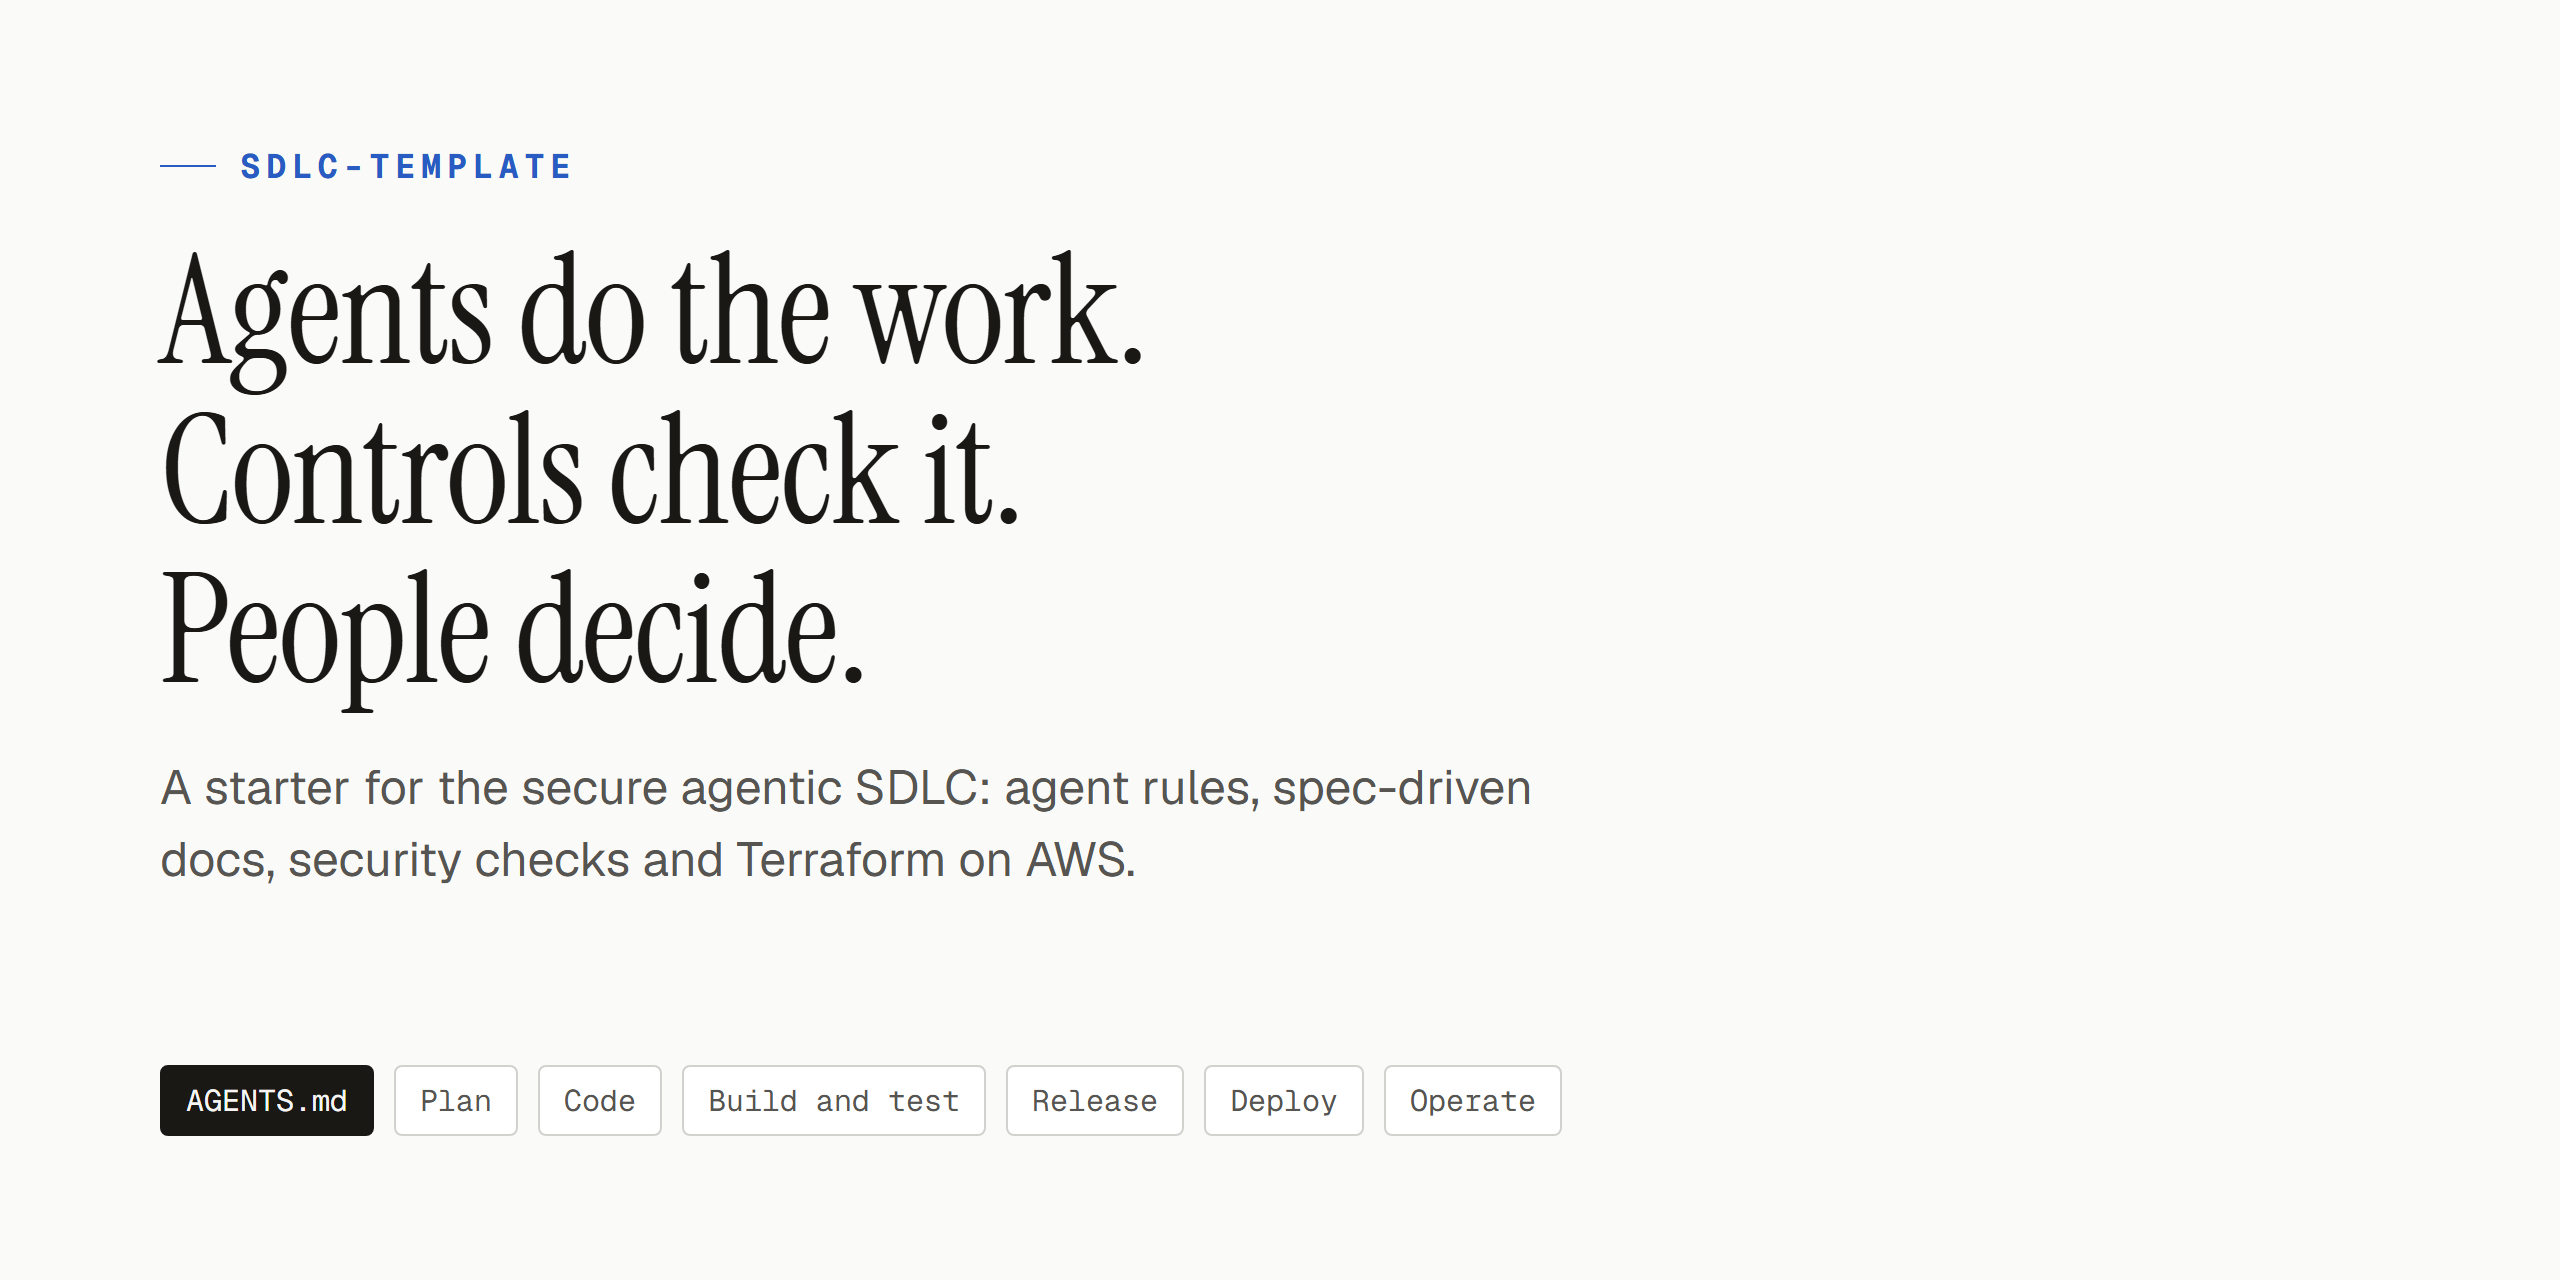
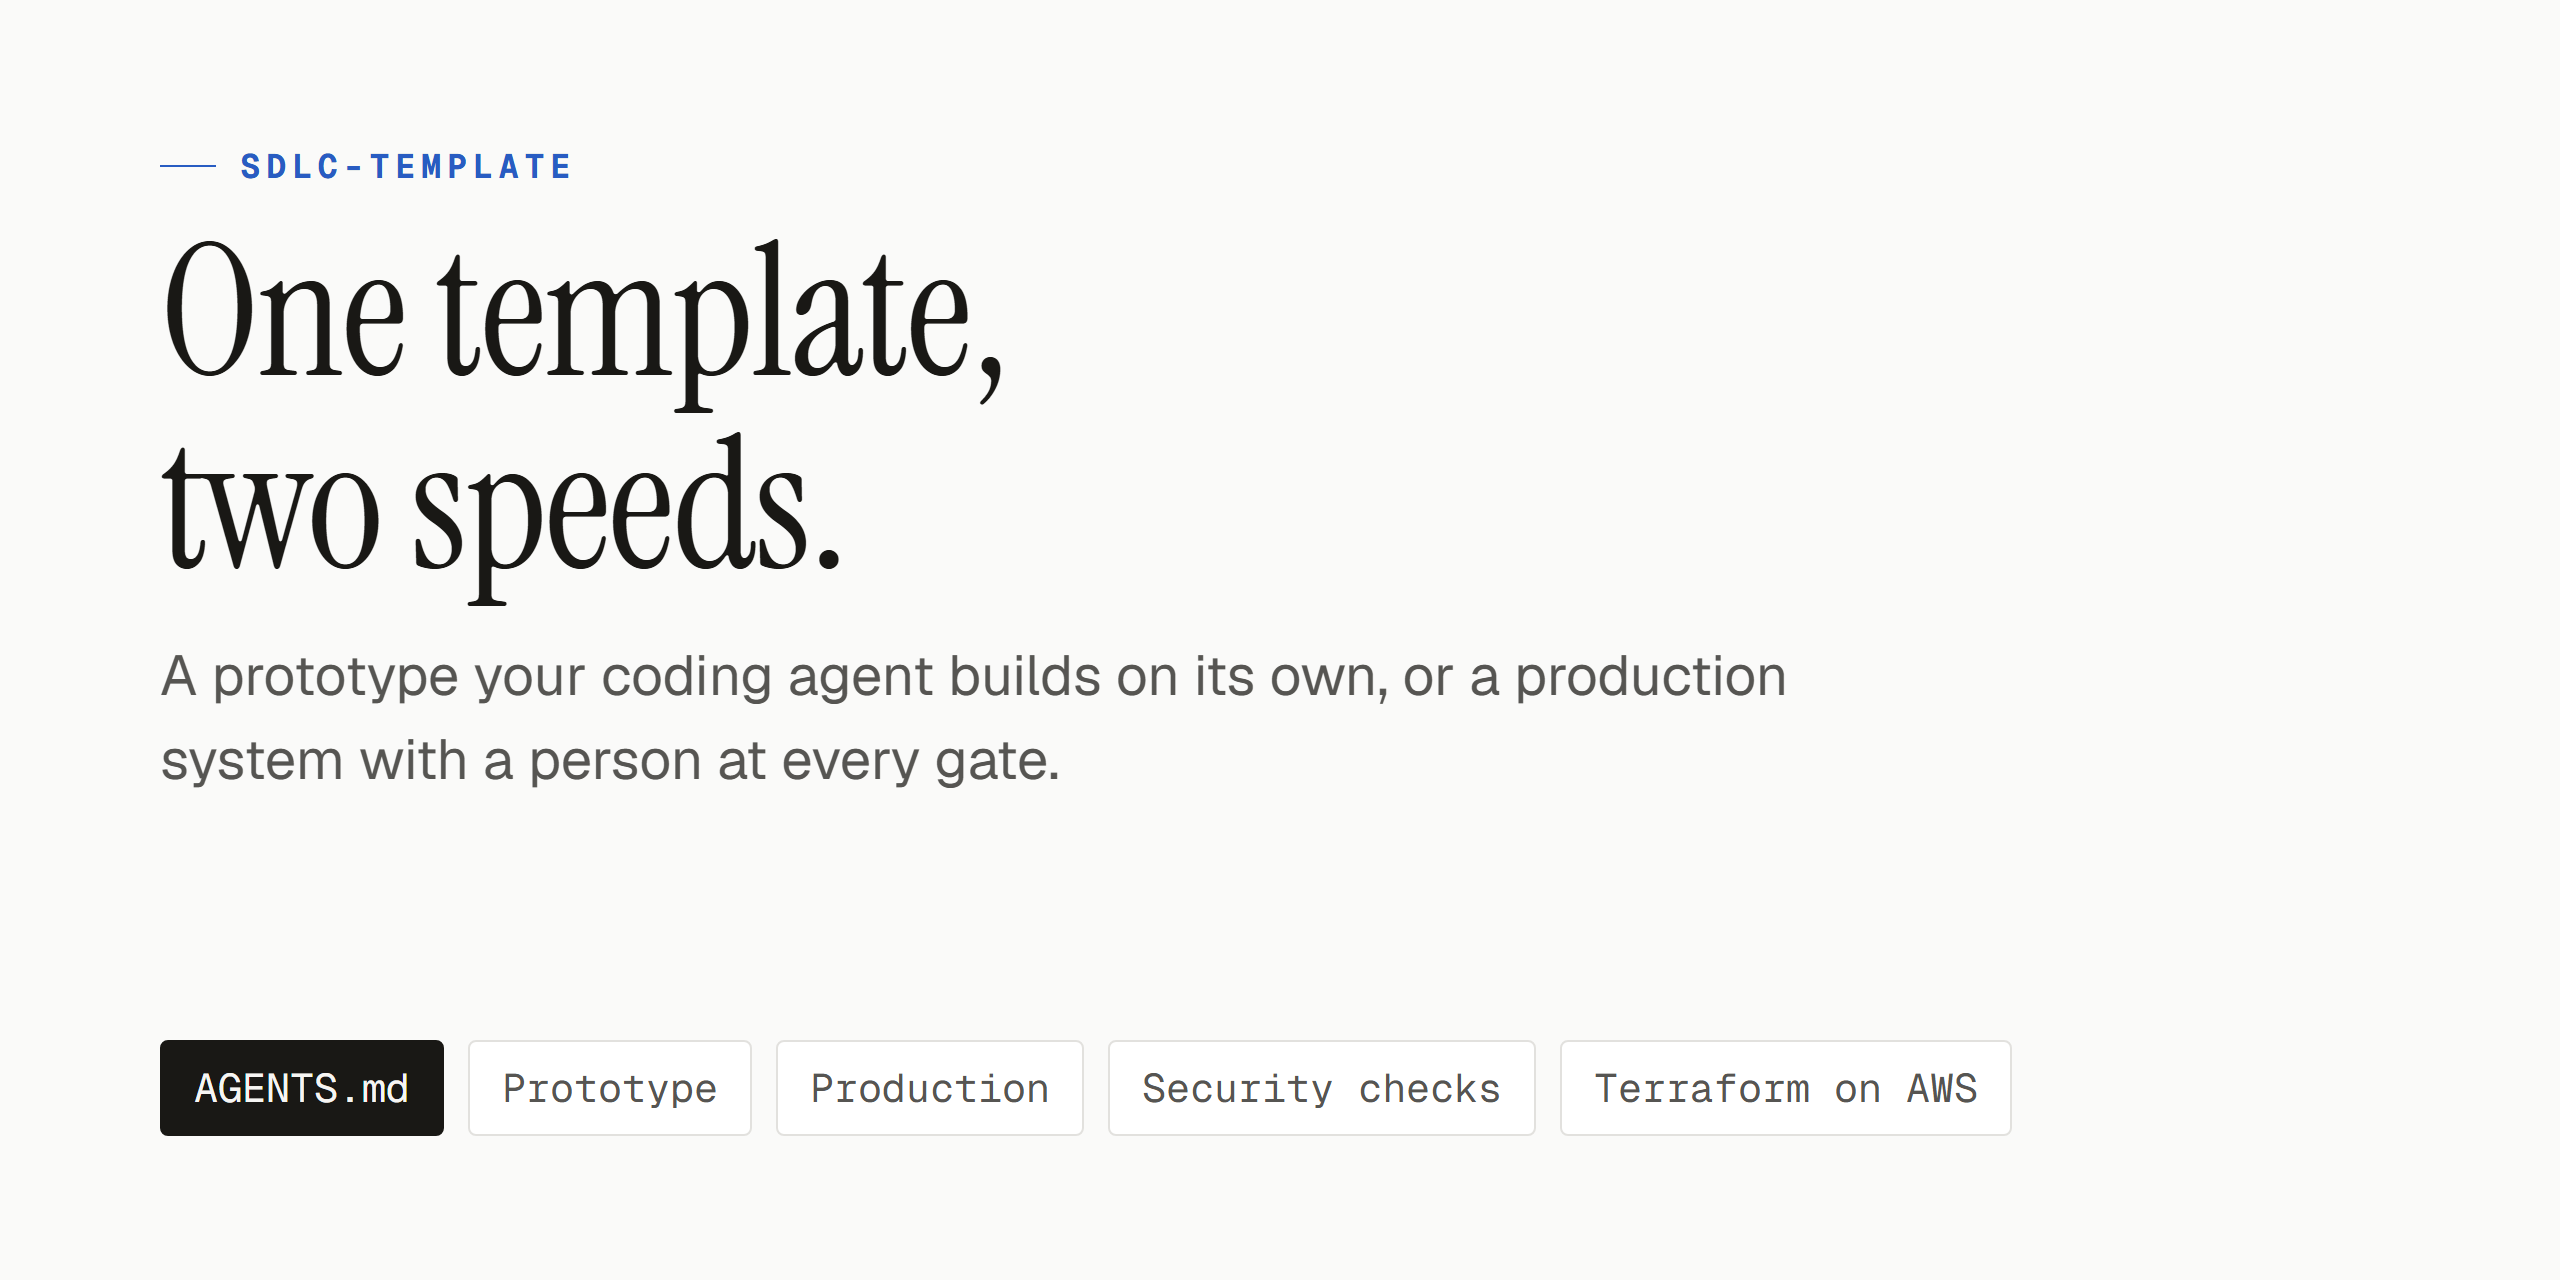
Rewrite the README around the two profiles, with new overview and social images

diff --git a/README.md b/README.md
@@ -2,22 +2,15 @@
 
 # sdlc-template
 
-**Start every project with AI coding agents that plan before they code, and checks that catch what they miss.**
+**One template, two speeds: a prototype your coding agent builds on its own, or a production system with a person at every gate.**
 
-<img src="https://img.shields.io/badge/Terraform-7B42BC?style=flat-square&logo=terraform&logoColor=white" alt="Terraform">
-<img src="https://img.shields.io/badge/AWS-FF9900?style=flat-square" alt="AWS">
-<img src="https://img.shields.io/badge/GitHub%20Actions-2088FF?style=flat-square&logo=githubactions&logoColor=white" alt="GitHub Actions">
-<img src="https://img.shields.io/badge/Python-3776AB?style=flat-square&logo=python&logoColor=white" alt="Python">
-<img src="https://img.shields.io/badge/uv-DE5FE9?style=flat-square&logo=uv&logoColor=white" alt="uv">
-<img src="https://img.shields.io/badge/Trivy-1904DA?style=flat-square&logo=trivy&logoColor=white" alt="Trivy">
-
-[Quick start](#quick-start) · [What you get](#what-you-get) · [Built with](#built-with) · [Guides](#guides)
+[Quick start](#quick-start) · [Two profiles](#two-profiles) · [What's inside](#whats-inside) · [What always runs](#what-always-runs) · [Guides](#guides)
 
 <br>
 
 <picture>
-  <source media="(prefers-color-scheme: dark)" srcset="guides/assets/lifecycle-dark.png">
-  <img src="guides/assets/lifecycle.png" width="880" alt="The secure agentic SDLC in six stages, Plan, Code, Build and test, Release, Deploy, Operate and monitor, showing for each what the agent does, what the automatic controls check, and what people decide.">
+  <source media="(prefers-color-scheme: dark)" srcset="guides/assets/overview-dark.png">
+  <img src="guides/assets/overview.png" width="880" alt="The two profiles side by side across five stages. Kick off: in both, you approve the spec and the MVP mockup; production adds the threat model and costs. Plan: a prototype's agent writes a short plan and keeps going; in production you approve the plan. Build: a prototype tests the main paths with one review at 50% coverage; production has tests and a review in every phase at 80%. Merge: a prototype's agent merges once the checks pass; in production a second reviewer approves the PR. Deploy: a prototype's dev deploys unattended; in production a second reviewer approves every apply. Always on in both: the pre-push scan, secrets, dependencies, SAST and IaC checks, a protected main, OIDC with no keys, and pipeline-only deploys.">
 </picture>
 
 </div>
@@ -27,40 +20,57 @@
 ```bash
 gh repo create my-project --template euginevd/sdlc-template --private --clone
 cd my-project
-bash scripts/setup.sh        # tools and the pre-push scan (--check only reports)
-bash scripts/protect-main.sh # GitHub security features and the main ruleset
+bash scripts/setup.sh         # tools and the pre-push scan
+bash scripts/protect-main.sh  # GitHub security features and the main ruleset
 ```
 
-Then tell your agent *"Kick off my-project: `<your notes>`"*. It asks whether this is a `prototype` or `production`, drafts the docs from your notes and waits for your approval before any work starts. Full steps: [guides/01-using-the-template.md](guides/01-using-the-template.md).
+Then tell your coding agent:
 
-## What you get
+> Kick off my-project: *your notes on the business, the problem, the users and the stack*
+
+It checks your machine, asks whether this is a prototype or production, drafts the docs from your notes and waits for your approval. From there, *"Build the sign-up page"* is the whole loop for a prototype: plan, code, tests, PR, merge and a deploy to `dev`. Every step, for both profiles, is in [guides/01-using-the-template.md](guides/01-using-the-template.md).
+
+## Two profiles
+
+You pick one at kickoff, and the agent works differently for each.
+
+| | Prototype: speed first | Production: approval first |
+|---|---|---|
+| For | No real users, customer data or payments | Anything that has them |
+| You approve | Kickoff: the spec, and the MVP mockup if there's UI | Kickoff, and every plan |
+| A second reviewer approves | Nothing | Every PR and every deploy, enforced by GitHub |
+| Tests | Main paths and anything sensitive, 50% coverage | Every change, abuse cases included, 80% coverage |
+| When unsure | The agent takes the simpler option and says so | The agent asks |
+
+A prototype's agent stops and asks before the project takes real users, customer data, payments or a `prod` deploy. Moving up is one prompt and one command, `bash scripts/protect-main.sh production`.
+
+## What's inside
 
 | | |
 |---|---|
-| **Two profiles** | `prototype`: speed first, with the agent free to plan, build, merge and deploy to `dev`. `production`: approval first, with you signing off the plan and a second reviewer, enforced by GitHub, approving each PR and each deploy |
-| **Agent rules** | [AGENTS.md](AGENTS.md), read by Claude Code, Codex, Cursor, Copilot and most coding agents: plan before code, build in reviewed phases, one PR per plan, never push to `main` |
-| **Spec-driven docs** | [docs/](docs/): business context, spec, plan, threat model, decisions, design system and costs, which the agent reads and keeps current |
-| **Security checks** | A scan on every push, and on every PR: SAST, secrets, dependencies, IaC and a security summary comment the agent fixes from |
-| **Infrastructure** | Terraform on AWS through GitHub OIDC: plan with a read-only role, apply with approval (a prototype's `dev` applies unattended), `dev` on merge and `prod` by hand |
-| **A starter** | [apps/api/](apps/api/), a Lambda with a `/health` route, and [infra/aws/api/](infra/aws/api/), which deploys it; [docs/](docs/) describes it, with a line to fill in for each thing your project decides |
+| [AGENTS.md](AGENTS.md) | The rules the agent follows, numbered so reviews can cite them: what to read, how to plan, build, open a PR and merge, what to ask first and what never to do. Read by Claude Code, Codex, Cursor, Copilot and most coding agents |
+| [docs/](docs/) | What the agent reads and keeps current: business context, spec, status, decisions, threat model, costs and a design system. Each starts as a true description of the starter, with a line to fill in for everything your project decides |
+| [apps/api/](apps/api/), [infra/aws/api/](infra/aws/api/) | The starter: a Lambda with a `/health` route and the Terraform that deploys it. The smallest thing that proves the pipeline end to end; keep it, build on it or replace it |
+| [.github/workflows/](.github/workflows/) | `ci` for the apps a PR changes, `security` and `codeql` for the scans, `aws` for the Terraform plan, the cost comment and the apply |
+| [infra/aws/bootstrap/](infra/aws/bootstrap/) | One stack per AWS account, deployed by you: the GitHub sign-in, a read-only plan role, a bounded deploy role, the state bucket and a budget alert |
+| [scripts/](scripts/) | `setup.sh` installs and checks a machine, `protect-main.sh` locks down the repo, `pr-findings.sh` lists what a PR still has to fix |
 
-## Built with
+## What always runs
 
-| Tool | What it does here | Where |
-|------|-------------------|-------|
-| Terraform | AWS infrastructure, one root per app | [infra/aws/](infra/aws/) |
-| GitHub Actions | App checks, security scans, Terraform plan and apply | [.github/workflows/](.github/workflows/) |
-| Python, uv | Apps, scripts and one locked workspace | [pyproject.toml](pyproject.toml) |
-| Semgrep, CodeQL | Static analysis | [security.yml](.github/workflows/security.yml), [codeql.yml](.github/workflows/codeql.yml) |
-| Gitleaks | Secrets in code and history | [pre-push-scan.sh](.lefthook/pre-push-scan.sh) |
-| Trivy, Checkov | Vulnerable packages, images and IaC misconfiguration | [security.yml](.github/workflows/security.yml) |
-| Infracost | Cost of each Terraform change, as a PR comment | [aws.yml](.github/workflows/aws.yml) |
-| Lefthook, Dependabot | The pre-push scan; weekly package updates | [lefthook.yml](lefthook.yml), [dependabot.yml](.github/dependabot.yml) |
+The same in both profiles:
+
+1. **Before every push:** Gitleaks and Trivy scan the pushed commits, so a secret added and then removed is still caught.
+2. **On every PR:** secrets (Gitleaks), vulnerable packages and misconfiguration (Trivy, Checkov), static analysis (Semgrep, and CodeQL on public repos), `terraform validate`, and lint, types and tests for the apps it changes. One summary comment lists the findings, and the agent fixes from it.
+3. **On `main` and weekly:** the full scans again, so a vulnerability published after a merge still fails a run, plus a list of every package in the code (SBOM).
+4. **Deploys:** only the pipeline touches AWS, signing in through GitHub OIDC with no stored keys. It plans with a read-only role and applies a saved plan, `dev` on merge and `prod` by hand.
+5. **Supply chain:** actions pinned by commit, scanner images by digest, and packages at least a week old before they're installed.
+
+What it doesn't cover is written down too: [guides/03-security-trade-offs.md](guides/03-security-trade-offs.md) lists each risk the template accepts for speed, with the fix for production.
 
 ## Guides
 
-1. [Using the template](guides/01-using-the-template.md): what you say and what the agent does, end to end, for a prototype or a production project.
+1. [Using the template](guides/01-using-the-template.md): what you say and what the agent does, from an empty repo to a deployed app.
 2. [The files](guides/02-the-files.md): what every file is and why it's there.
-3. [Security trade-offs](guides/03-security-trade-offs.md): the risks the template accepts, and the fix for production.
+3. [Security trade-offs](guides/03-security-trade-offs.md): the risks the template accepts, and the fix for each.
 
-To contribute, read [CONTRIBUTING.md](CONTRIBUTING.md); report vulnerabilities through [SECURITY.md](SECURITY.md). MIT licence.
+To contribute, read [CONTRIBUTING.md](CONTRIBUTING.md); report vulnerabilities through [SECURITY.md](SECURITY.md). [MIT licence](LICENSE).

diff --git a/CONTRIBUTING.md b/CONTRIBUTING.md
@@ -2,7 +2,7 @@
 
 # Contributing
 
-**Every change, by a person or a coding agent, goes through the same checks; the project's profile sets how much planning and approval it needs.**
+**Every change, by a person or a coding agent, goes through the same checks. The project's profile sets how much planning and approval it needs.**
 
 [Setup](#setup) · [Making a change](#making-a-change) · [Pull requests](#pull-requests)
 
@@ -16,7 +16,7 @@
 ## Making a change
 
 1. Start from the spec: a change it doesn't cover starts with an update to [docs/spec.md](docs/spec.md).
-2. Plan before code, then build in phases with tests: [guides/01-using-the-template.md](guides/01-using-the-template.md), section 5, or section 4 for a `prototype`.
+2. Follow the project's profile: [guides/01-using-the-template.md](guides/01-using-the-template.md), section 4 for a `prototype`, section 5 for `production`.
 3. Never push to `main` or skip the pre-push scan.
 
 ## Pull requests
@@ -25,4 +25,4 @@
 2. Every check passes and the security summary is clean; fix findings at their cause.
 3. Update the branch if `main` has moved, then squash-merge: once approved in a `production` project, once checks pass in a `prototype`.
 
-Security issues go through [SECURITY.md](SECURITY.md), never a public issue or PR.
+Security issues go through [SECURITY.md](SECURITY.md), never a public issue or PR. [MIT licence](LICENSE).

diff --git a/guides/02-the-files.md b/guides/02-the-files.md
@@ -38,7 +38,7 @@ my-project/
    7. **skeleton-plan.md**: the outline each plan is copied from.
    8. **plan-\<name\>.md**, **mockups/\<name\>.html**: the plan being built and its screens; deleted when done.
    9. **mockups/mvp.html**: the MVP's screens, agreed at kickoff; deleted once they're all built.
-5. **guides/**: for people: 01 how to use the template, 02 this tour, 03 the risks it accepts; assets/ holds the README's hero image and `social.png`, the repo's social preview.
+5. **guides/**: for people: 01 how to use the template, 02 this tour, 03 the risks it accepts; assets/ holds the README's overview image, light and dark, and `social.png`, the repo's social preview.
 6. **SECURITY.md**: how to report a vulnerability privately; shown in GitHub's Security tab.
 7. **LICENSE**: MIT; anyone may use, copy or change the code, keeping the notice; replace it per project.
 

diff --git a/SECURITY.md b/SECURITY.md
@@ -25,3 +25,5 @@
 1. **In scope:** the `main` branch only: the code, workflows, scripts and infrastructure as code.
 2. **Out of scope:** findings already accepted in [guides/03-security-trade-offs.md](guides/03-security-trade-offs.md), the starter's placeholder docs, and anything that needs a compromised GitHub or AWS account to begin with.
 3. **Testing:** test against your own copy, never someone else's deployment, and don't access or keep anyone's data. Research in good faith under this policy won't be pursued.
+
+To contribute a fix, read [CONTRIBUTING.md](CONTRIBUTING.md). [MIT licence](LICENSE).
